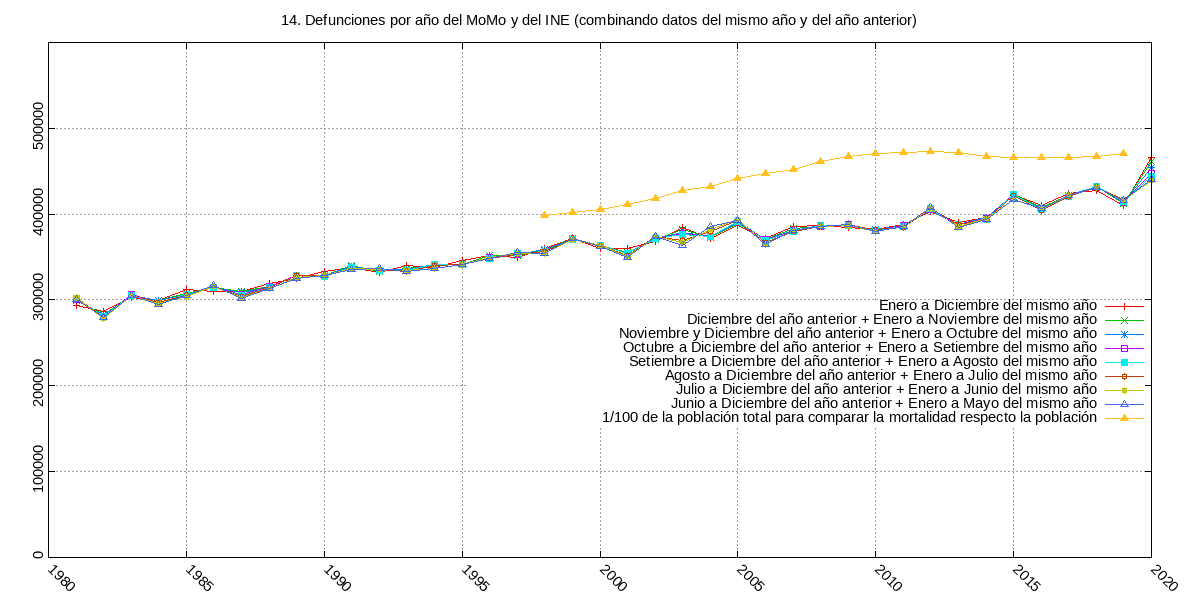
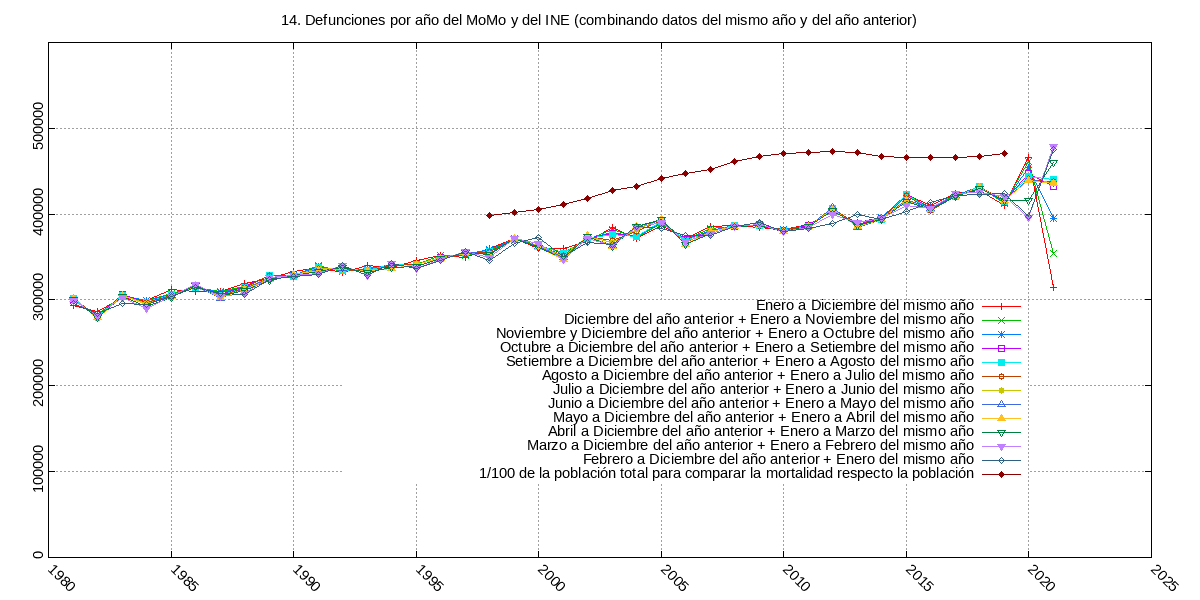
Millorar el plot14 per tenir tots els sumatoris + les dades del 2021

diff --git a/php/plot14.php b/php/plot14.php
@@ -21,47 +21,52 @@ if (!file_exists("output/plot14${lang}.png")) {
     // LA POSICIO 7 TE LES DADES DE TOT EL ANY EXCEPTE PER JUNY, JULIOL, AGOST, SETEMBRE, OCTUBRE, NOVEMBRE I DESEMBRE
     $matrix1 = array();
     foreach ($momo as $key => $val) {
-        for ($i = 0; $i < 8; $i++) {
+        for ($i = 0; $i < 12; $i++) {
             $year = strtok($val[0], "-");
             $month = intval(strtok(""));
             if ($month > 12 - $i) {
                 $year++;
             }
             if (!isset($matrix1[$year])) {
-                $matrix1[$year] = array_fill(0, 8, 0);
+                $matrix1[$year] = array_fill(0, 12, 0);
             }
             $matrix1[$year][$i] += $val[1];
         }
     }
-    $matrix1 = array(2020 => $matrix1[2020]);
+    $matrix1 = array(
+        2021 => $matrix1[2021],
+        2020 => $matrix1[2020],
+    );
     // IDEM PERO PER LES DADES DEL INE1 PER L'ANY 2019
     $matrix2 = array();
     foreach ($ine1 as $key => $val) {
-        for ($i = 0; $i < 8; $i++) {
+        for ($i = 0; $i < 12; $i++) {
             $year = strtok($val[0], "-");
             $month = intval(strtok(""));
             if ($month > 12 - $i) {
                 $year++;
             }
             if (!isset($matrix2[$year])) {
-                $matrix2[$year] = array_fill(0, 8, 0);
+                $matrix2[$year] = array_fill(0, 12, 0);
             }
             $matrix2[$year][$i] += $val[1];
         }
     }
-    $matrix2 = array(2019 => $matrix2[2019]);
+    $matrix2 = array(
+        2019 => $matrix2[2019],
+    );
     // IDEM PERO PER LES DADES DEL INE2 PER LA RESTA D'ANYS (2018 A 1981)
     // HAY QUE QUITAR LOS EXTREMOS PORQUE TIENEN SOLO FRAGMENTOS DE AÑO
     $matrix3 = array();
     foreach ($ine2 as $key => $val) {
-        for ($i = 0; $i < 8; $i++) {
+        for ($i = 0; $i < 12; $i++) {
             $year = strtok($val[0], "-");
             $month = intval(strtok(""));
             if ($month > 12 - $i) {
                 $year++;
             }
             if (!isset($matrix3[$year])) {
-                $matrix3[$year] = array_fill(0, 8, 0);
+                $matrix3[$year] = array_fill(0, 12, 0);
             }
             $matrix3[$year][$i] += $val[1];
         }
@@ -119,7 +124,11 @@ if (!file_exists("output/plot14${lang}.png")) {
             '' u 1:7 w lp ti col,\
             '' u 1:8 w lp ti col,\
             '' u 1:9 w lp ti col,\
-            '' u 1:10 w lp ti col",
+            '' u 1:10 w lp ti col,\
+            '' u 1:11 w lp ti col,\
+            '' u 1:12 w lp ti col,\
+            '' u 1:13 w lp ti col,\
+            '' u 1:14 w lp ti col",
     )) . "\n";
     file_put_contents("middle/plot14${lang}.gnu", $gnuplot);
     passthru("gnuplot middle/plot14${lang}.gnu 2>&1");

diff --git a/php/langs.php b/php/langs.php
@@ -346,6 +346,26 @@ $textos = array(
             "en" => "June to December of the previous year + January to May of the same year",
         ),
         8 => array(
+            "ca" => "Maig a Desembre de l'any anterior + Gener a Abril del mateix any",
+            "es" => "Mayo a Diciembre del año anterior + Enero a Abril del mismo año",
+            "en" => "May to December of the previous year + January to April of the same year",
+        ),
+        9 => array(
+            "ca" => "Abril a Desembre de l'any anterior + Gener a Març del mateix any",
+            "es" => "Abril a Diciembre del año anterior + Enero a Marzo del mismo año",
+            "en" => "April to December of the previous year + January to March of the same year",
+        ),
+        10 => array(
+            "ca" => "Març a Desembre de l'any anterior + Gener a Febrer del mateix any",
+            "es" => "Marzo a Diciembre del año anterior + Enero a Febrero del mismo año",
+            "en" => "March to December of the previous year + January to February of the same year",
+        ),
+        11 => array(
+            "ca" => "Febrer a Desembre de l'any anterior + Gener del mateix any",
+            "es" => "Febrero a Diciembre del año anterior + Enero del mismo año",
+            "en" => "February to December of the previous year + January of the same year",
+        ),
+        12 => array(
             "ca" => "1/100 de la població total per comparar la mortalitat respecte la població",
             "es" => "1/100 de la población total para comparar la mortalidad respecto la población",
             "en" => "1/100 of the total population for compare the deathly vs population",
